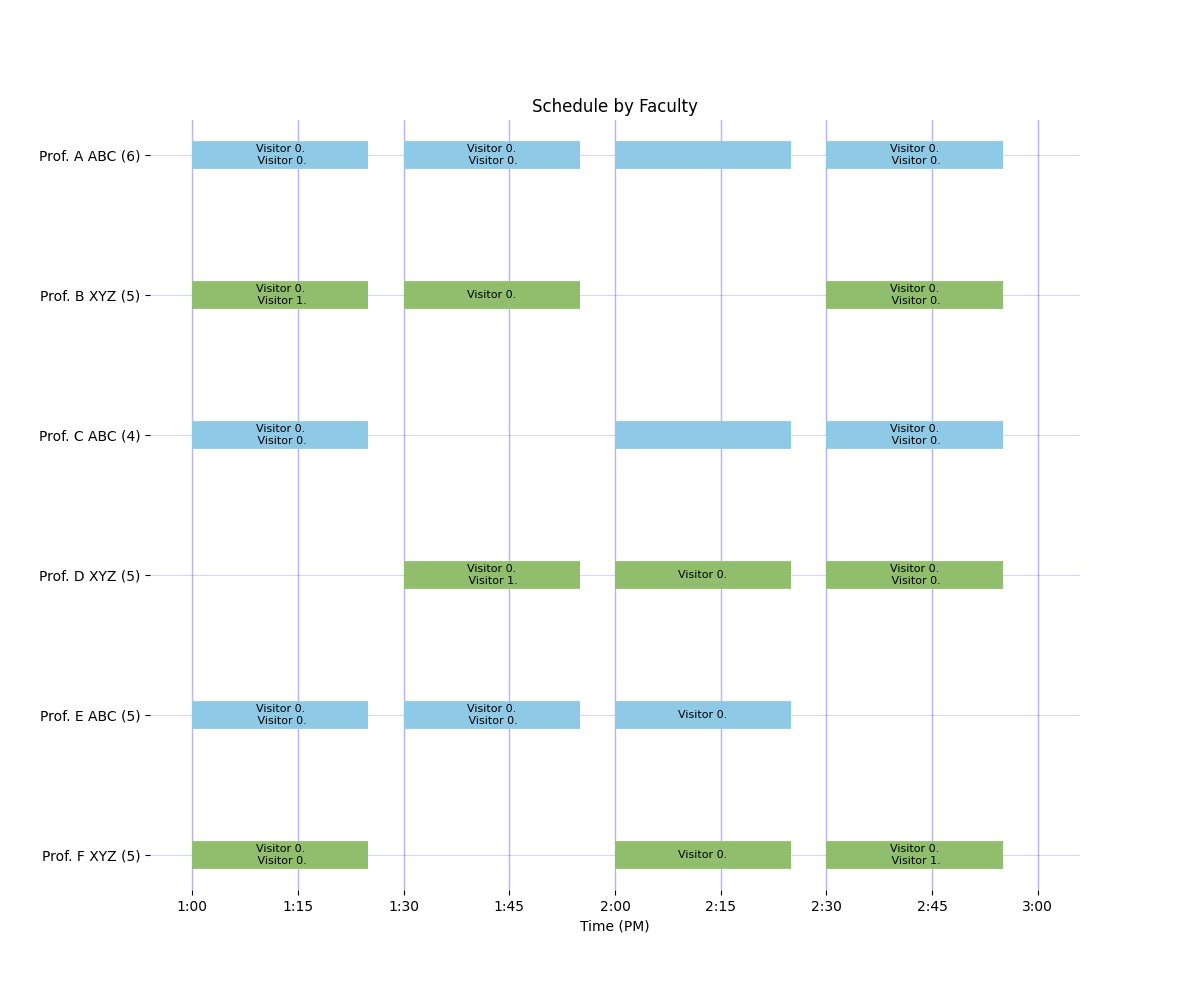
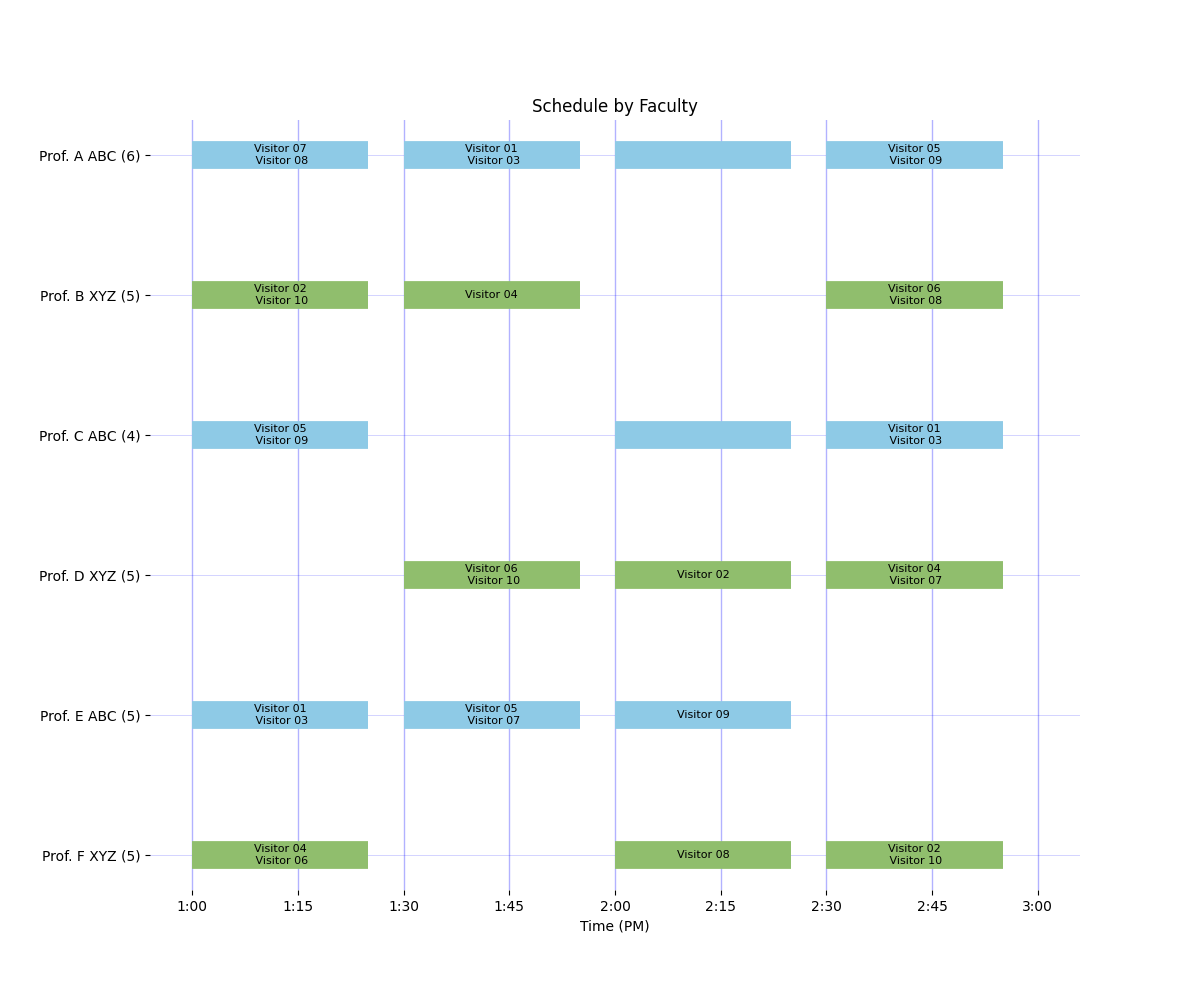
Patched plotting bug with Visitor 01, etc., being abbreviated.

diff --git a/src/grad_visit_scheduler/core.py b/src/grad_visit_scheduler/core.py
@@ -87,14 +87,24 @@ def abbreviate_name(full_name):
     --------
     ``"Jane Doe" -> "Jane D."``
     ``"John Michael Doe" -> "John M. D."``
+
+    Notes
+    -----
+    If non-initial tokens are not alphabetic (for example ``"Visitor 01"``),
+    the original name is returned unchanged to avoid ambiguous labels.
     """
     if not full_name:  # Check for empty or None input
         return ""
 
+    full_name = str(full_name).strip()
     name_parts = full_name.split()
 
     if not name_parts:  # Check for empty after split
         return ""
+
+    # Avoid collapsing labels like "Visitor 01" into "Visitor 0."
+    if any(not any(ch.isalpha() for ch in part) for part in name_parts[1:]):
+        return full_name
 
     num_parts = len(name_parts)
 
